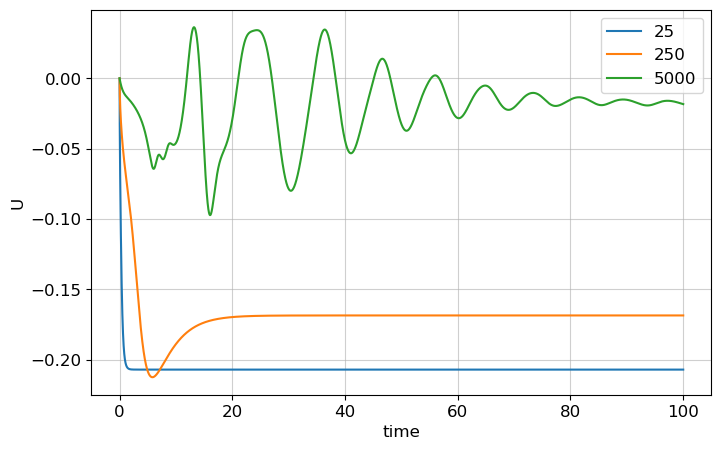
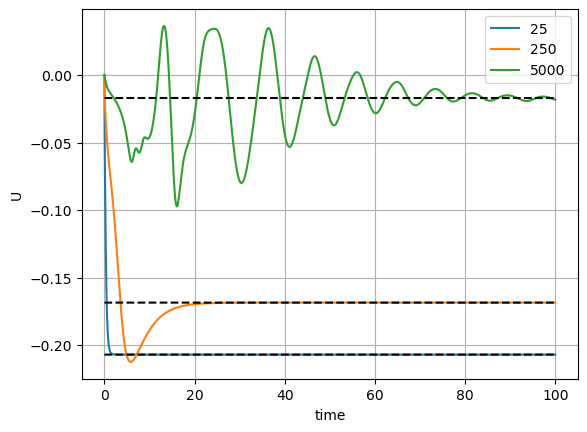
updated code

Changed region(s): [[0.0307, 0.0, 1.0, 0.9329], [0.5213, 0.9329, 0.5826, 0.9931], [0.0, 0.4213, 0.0307, 0.4815]]

diff --git a/python/probe.py b/python/probe.py
@@ -7,10 +7,31 @@ t = mat['t'][0]
 uvel = mat['uvel']
 cases = [25, 250, 5000]
 
+duvel = np.diff(uvel, axis = 0)/np.diff(t)[0]
+
+print(np.median(uvel,axis = 0))
+
 plt.figure()
 plt.plot(t, uvel)
+plt.plot(t, np.median(uvel,axis = 0)*np.ones((t.shape[0],3)),'--', color = 'black')
+plt.ylabel("U")
+plt.xlabel("time")
+plt.legend(cases)
+plt.grid()
+plt.savefig("./plots/plot1.png", bbox_inches='tight')
+
+
+rel_deriv = duvel/np.median(uvel,axis = 0)
+plt.figure()
+plt.plot(t[1:], rel_deriv)
 plt.ylabel("U")
 plt.xlabel("time")
 plt.legend(cases)
 plt.grid()
 plt.savefig("./plots/plot1derivative.png", bbox_inches='tight')
+
+
+
+print(np.abs(np.argmax(np.abs(rel_deriv[:,1]-np.median(uvel,axis = 0)[1])<0.01)))
+for col in range(uvel.shape[1]):
+    print(t[np.argmax(np.abs(rel_deriv[:,col]) < 0.01)])
